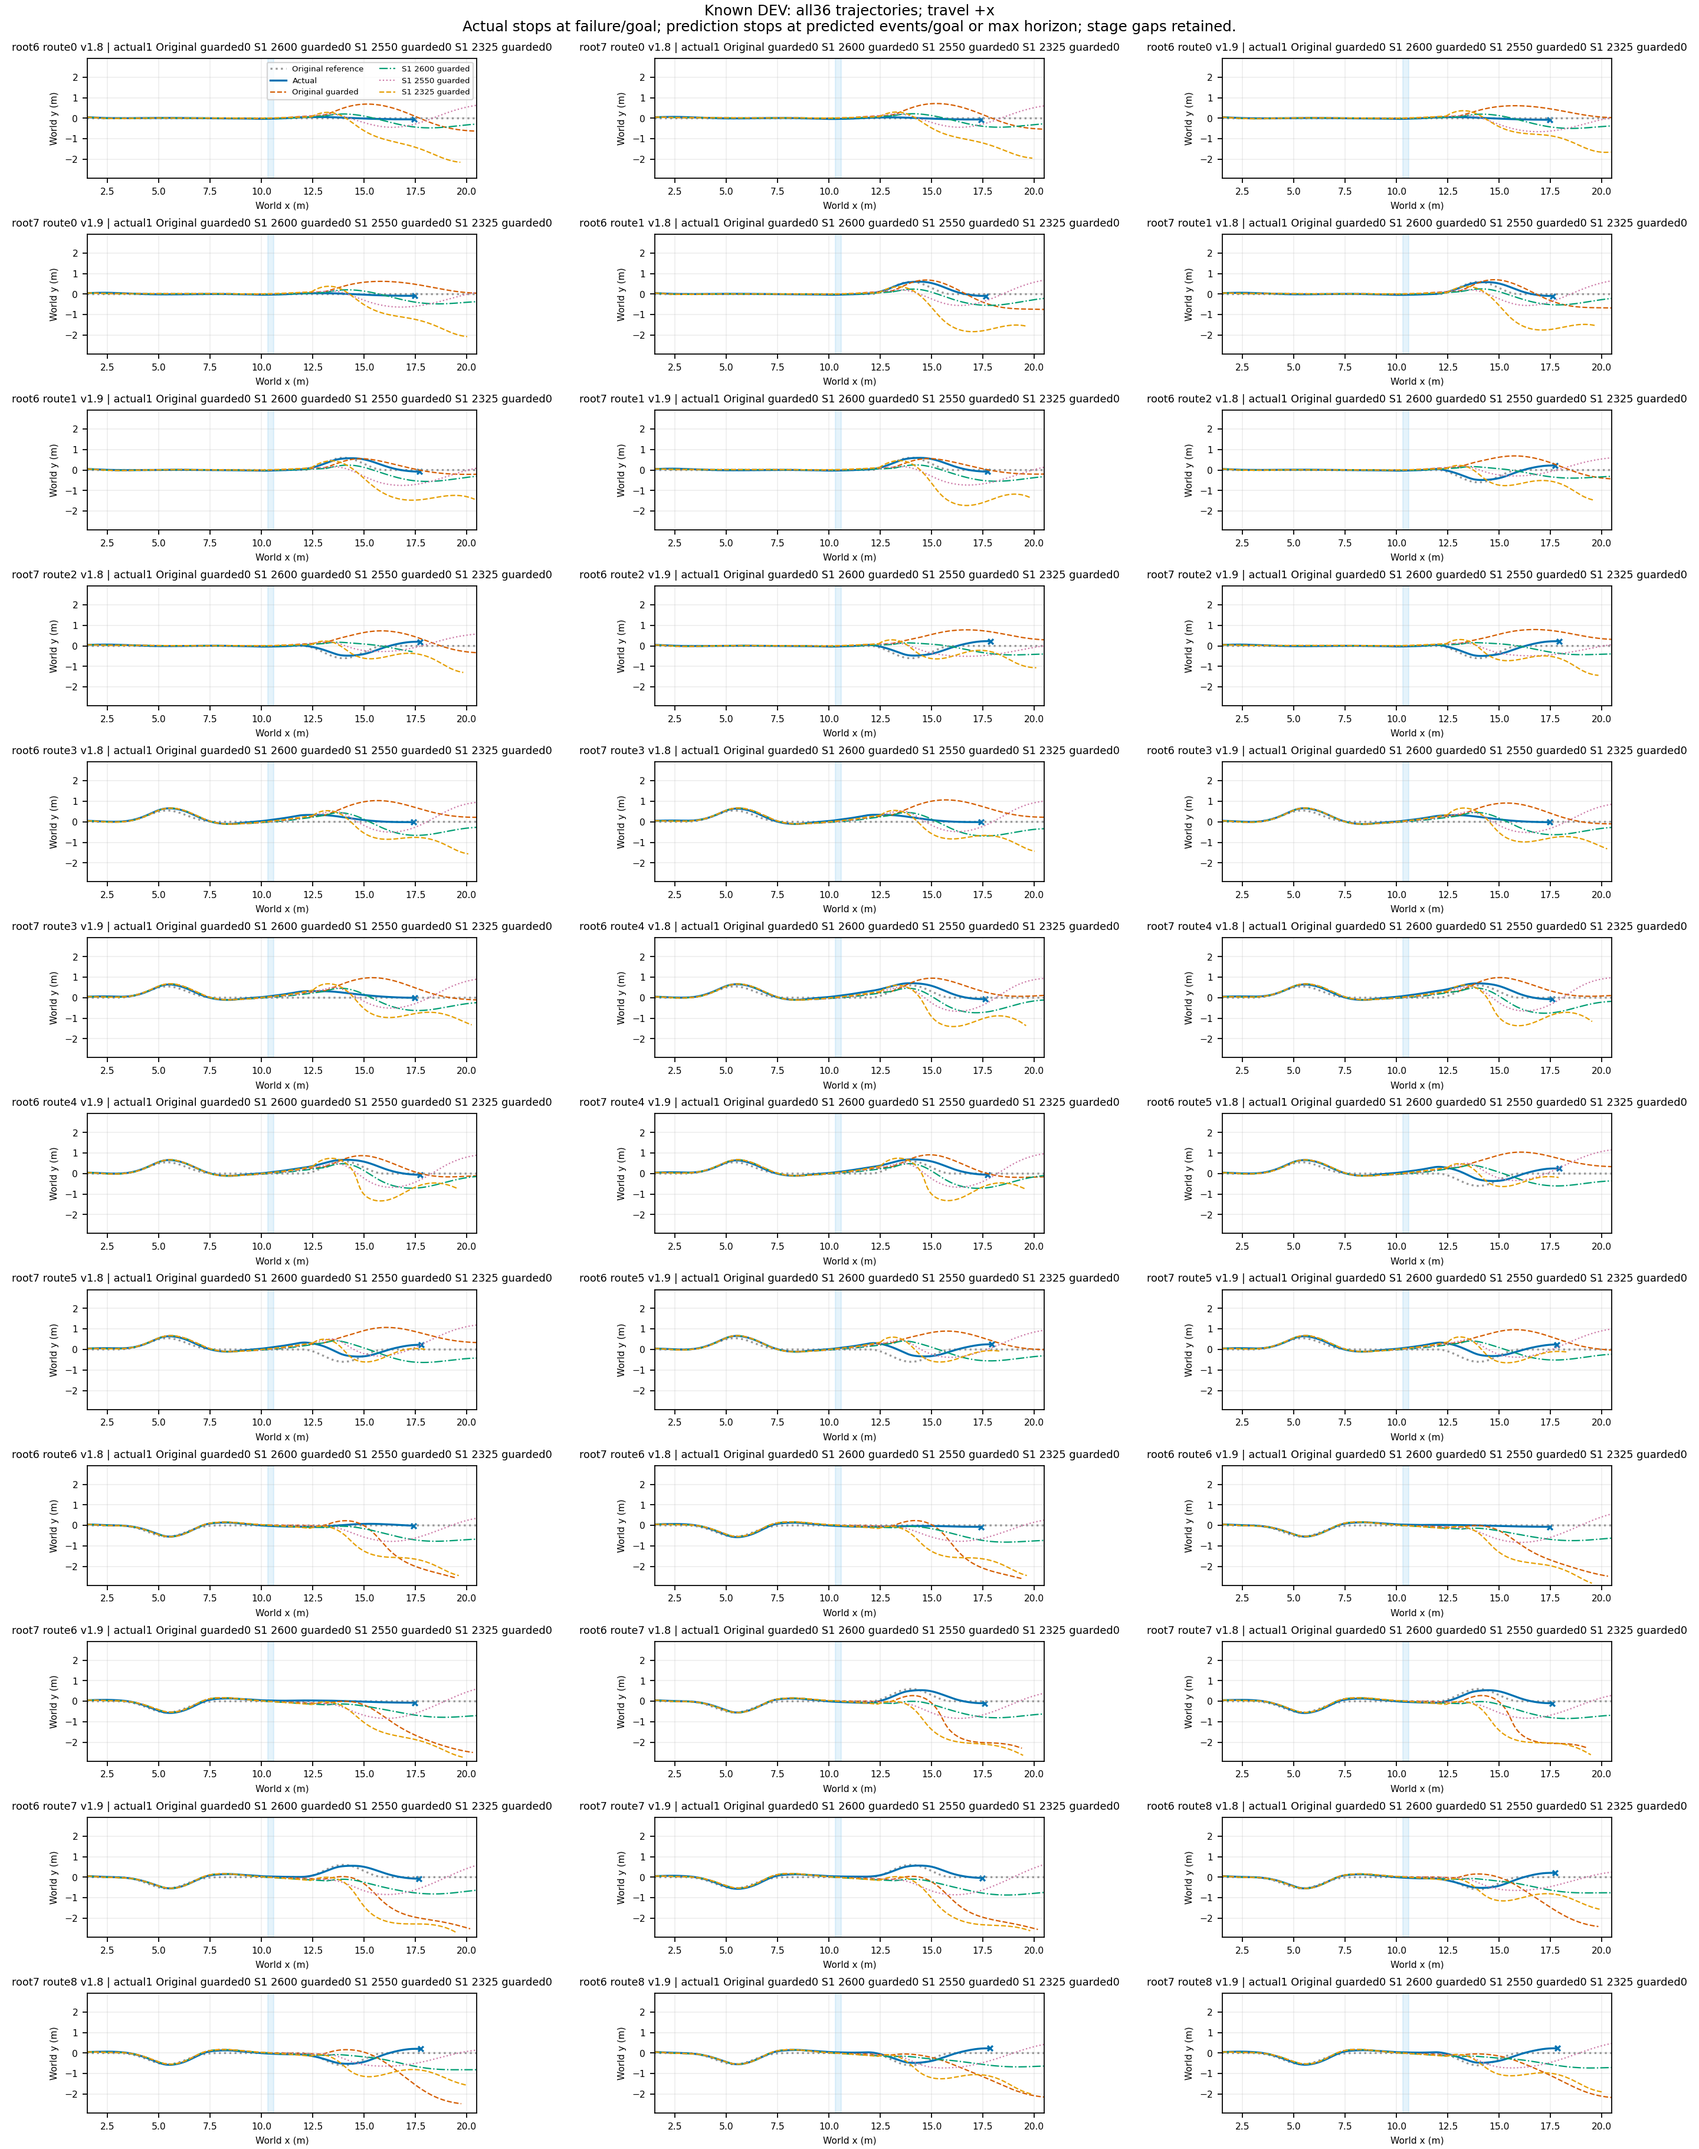
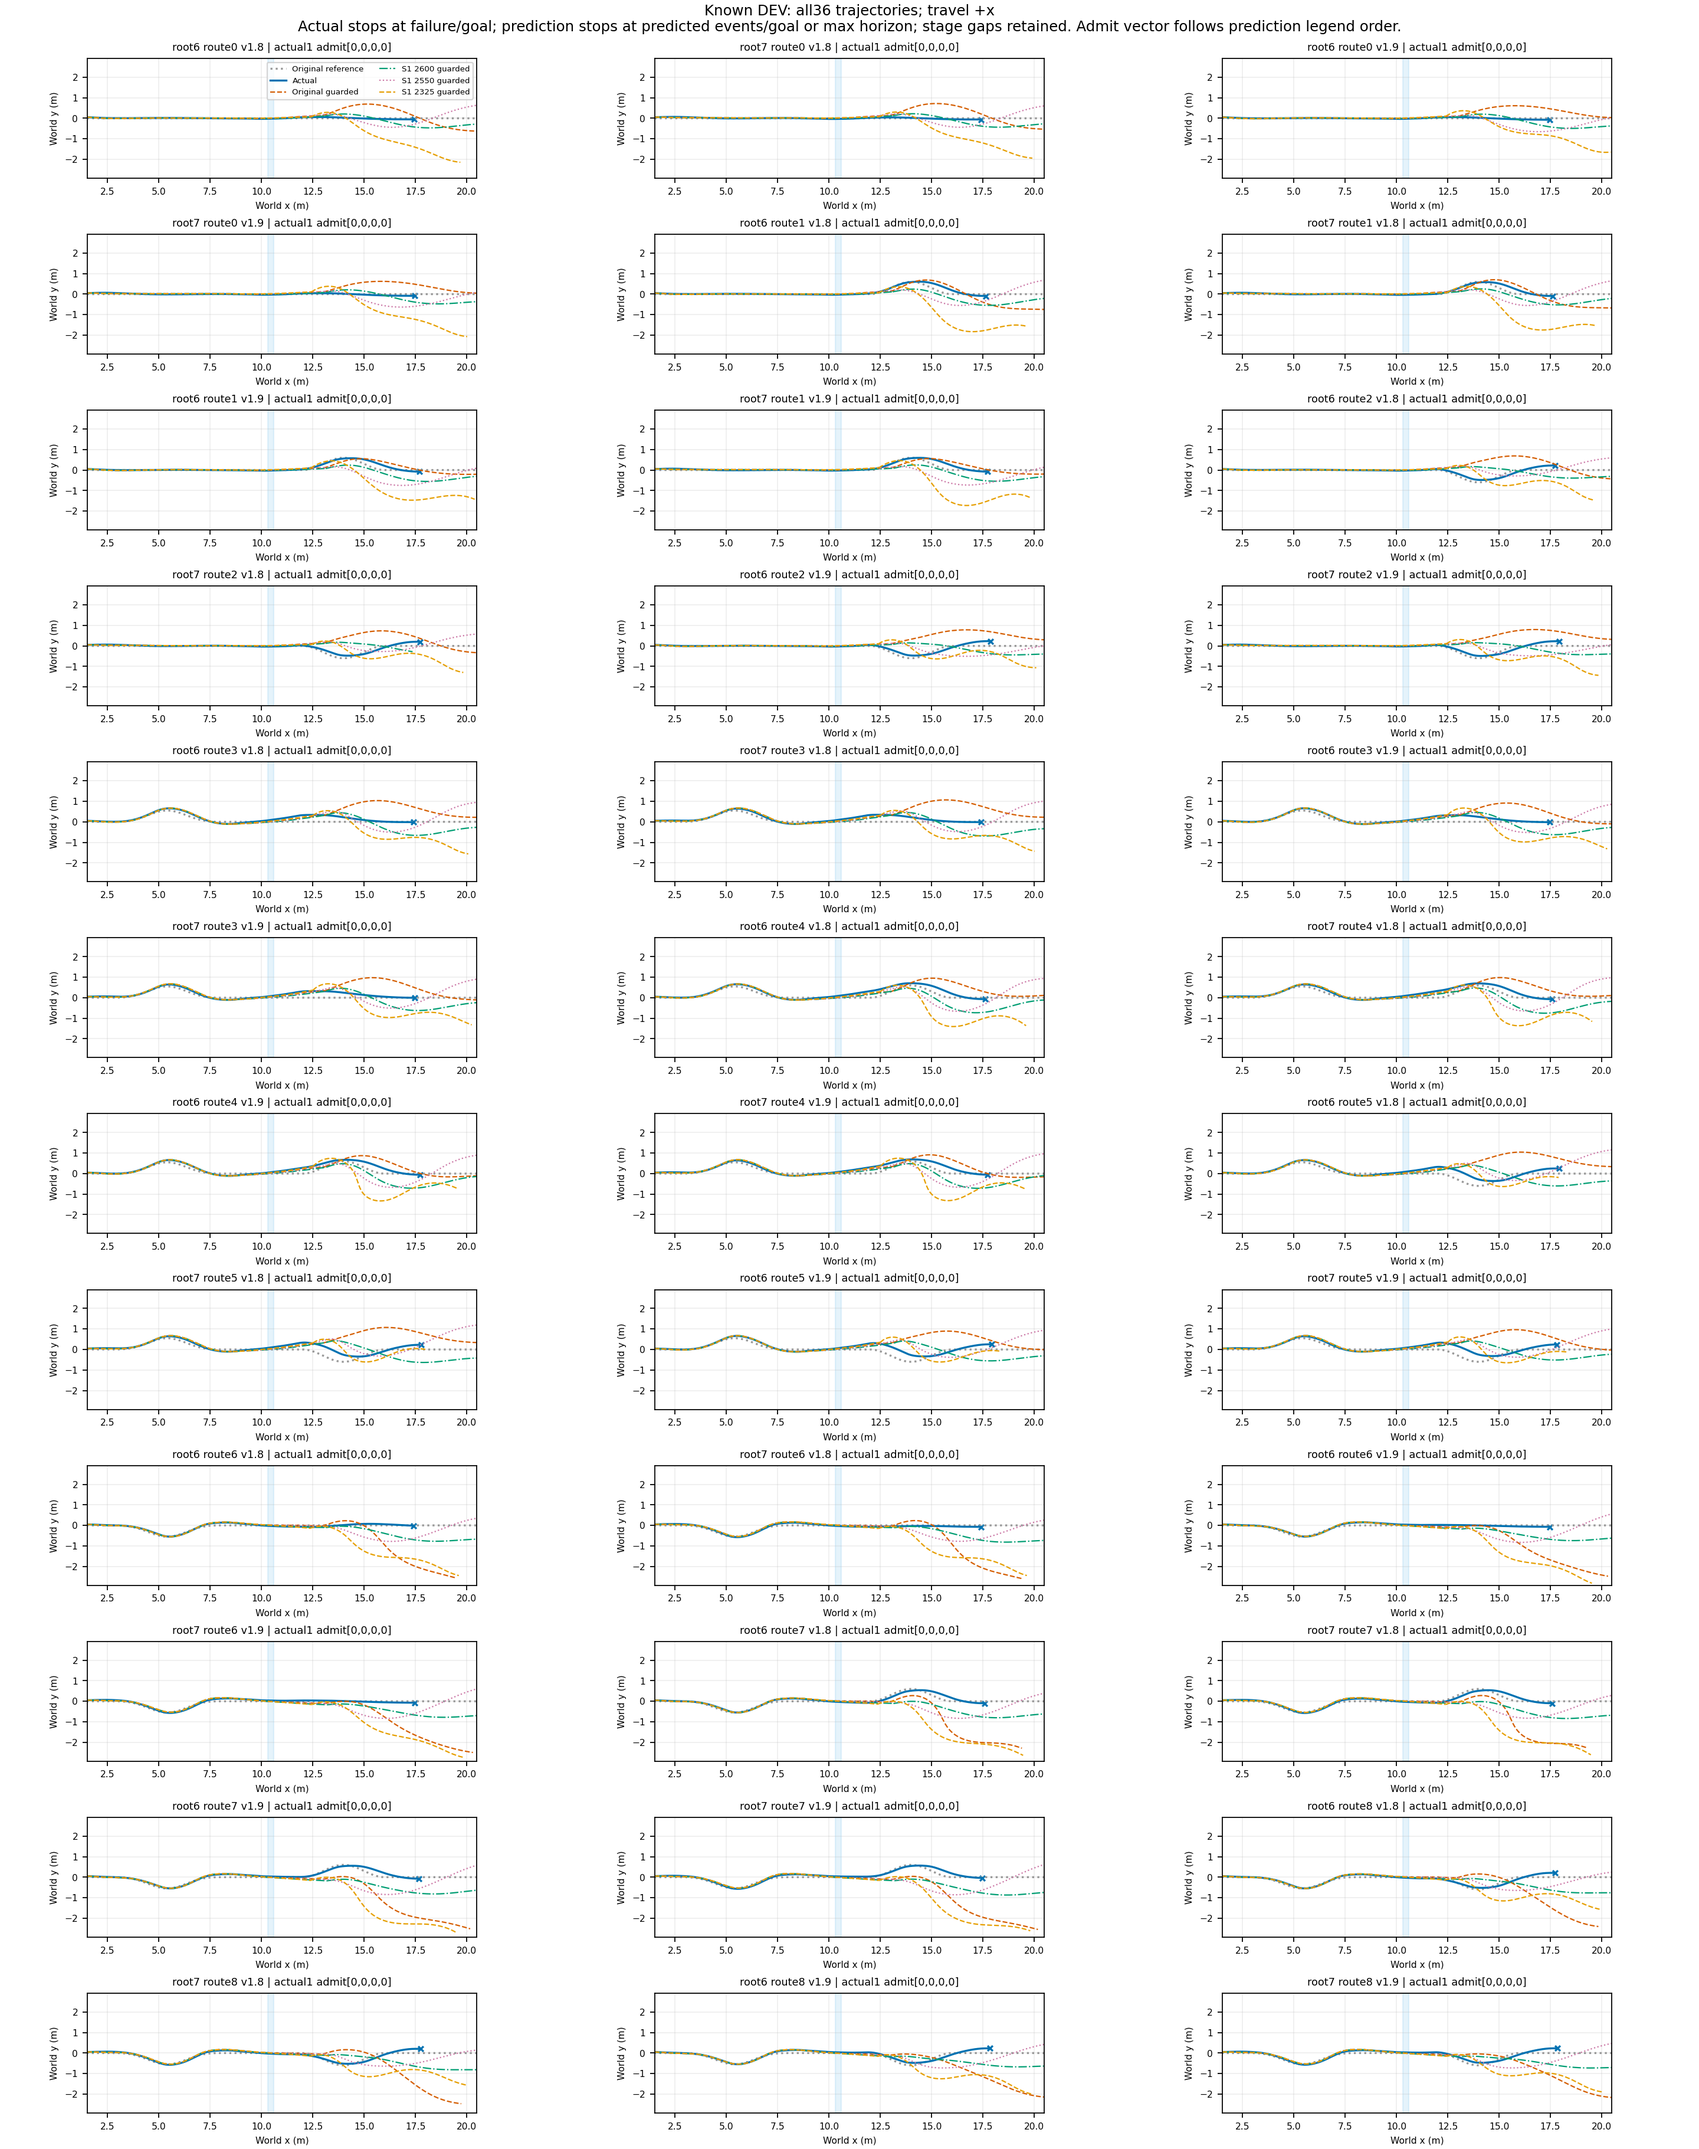
Keep full-chain comparison panel titles readable

Changed region(s): [[0.3438, 0.0, 0.6562, 0.031], [0.6875, 0.0, 0.8125, 0.031], [0.1875, 0.0, 0.3125, 0.031]]

diff --git a/learning/cli/report_skill_sequence.py b/learning/cli/report_skill_sequence.py
@@ -33,10 +33,10 @@ for i,(row,ax) in enumerate(zip(rows,axes.flat)):
    points=z[stage][i,:stop,:2];ax.plot(points[:,0],points[:,1],style,color=color,lw=1,label=method if j==0 else None)
  for x0,x1,y0,y1 in world['terrain'].get('forbidden_rectangles',[]):ax.add_patch(Rectangle((x0,y0),x1-x0,y1-y0,color='.5',alpha=.25))
  front=world['terrain']['front_x_m'];ax.axvspan(front,front+world['terrain']['width_m'],color='#56B4E9',alpha=.15)
- ax.set_title(f'root{row["root"]} route{row["route"]} v{row.get("speed",1.8):.1f} | actual{int(row["actual_success"])} '+ ' '.join(f'{m}{int(records[m][i]["admitted"])}' for m in paths),fontsize=8)
+ ax.set_title(f'root{row["root"]} route{row["route"]} v{row.get("speed",1.8):.1f} | actual{int(row["actual_success"])} '+ 'admit['+','.join(str(int(records[m][i]['admitted'])) for m in paths)+']',fontsize=8)
  ax.set_xlim(1.5,20.5);ax.set_ylim(-y_limit,y_limit);ax.set_aspect('equal',adjustable='box');ax.set_xlabel('World x (m)',fontsize=7);ax.set_ylabel('World y (m)',fontsize=7);ax.tick_params(labelsize=7);ax.grid(alpha=.2)
 for ax in list(axes.flat)[len(rows):]:ax.set_visible(False)
-axes[0,0].legend(fontsize=6,ncol=2);fig.suptitle(f'Known DEV: all{len(rows)} trajectories; travel +x\nActual stops at failure/goal; prediction stops at predicted events/goal or max horizon; stage gaps retained.',fontsize=11);fig.savefig(a.output/'xy.png',dpi=160);plt.close(fig)
+axes[0,0].legend(fontsize=6,ncol=2);fig.suptitle(f'Known DEV: all{len(rows)} trajectories; travel +x\nActual stops at failure/goal; prediction stops at predicted events/goal or max horizon; stage gaps retained. Admit vector follows prediction legend order.',fontsize=11);fig.savefig(a.output/'xy.png',dpi=160);plt.close(fig)
 summaries={}
 for method,path in paths.items():
  summaries[method]=json.loads((path/'summary.json').read_text());shutil.copyfile(path/'contract.json',a.output/f'{method}_contract.json')
